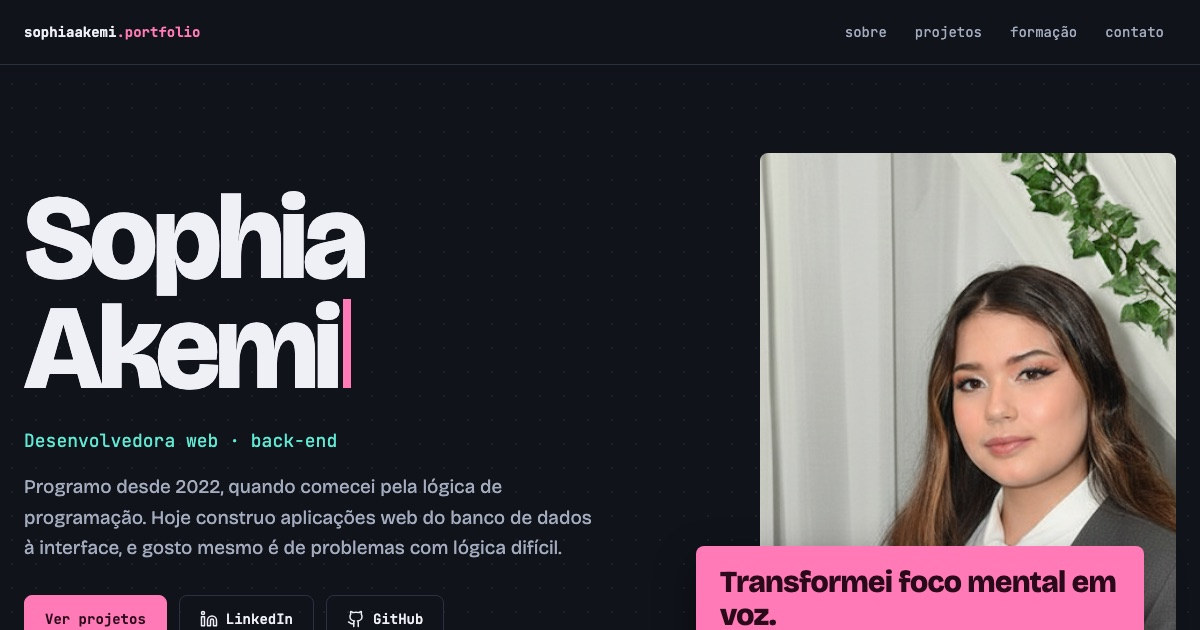
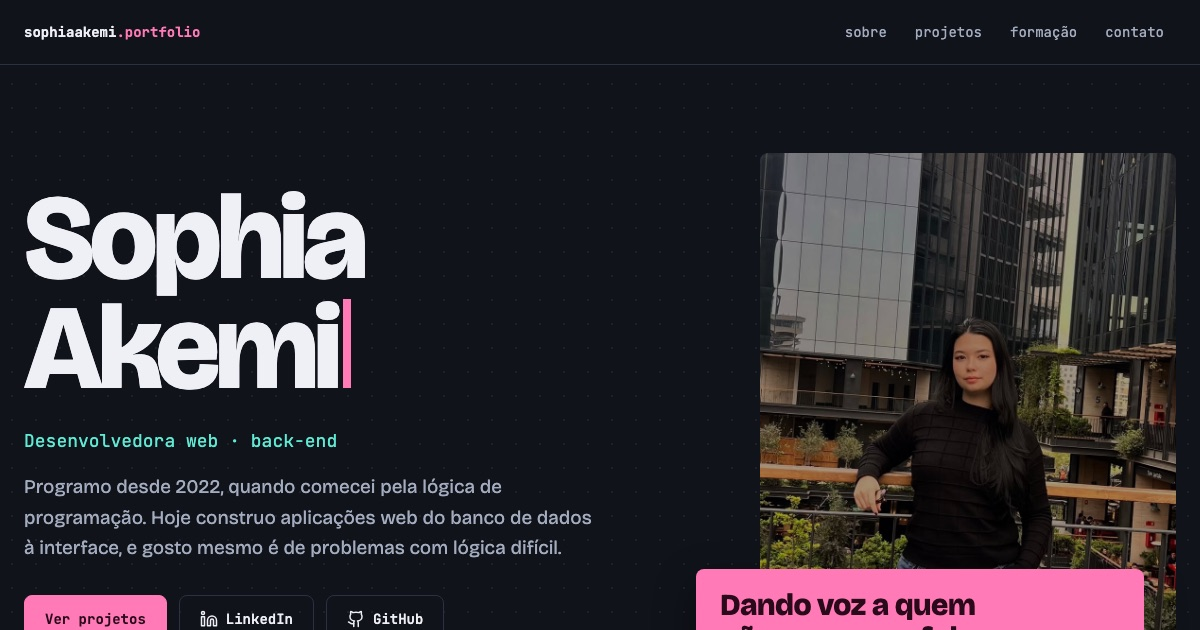
Troca a foto do topo do portfólio

Changed region(s): [[0.555, 0.2413, 0.9867, 1.0], [0.4317, 0.8444, 0.4625, 0.8746]]

diff --git a/index.html b/index.html
@@ -73,7 +73,7 @@
           </div>
 
           <div class="hero__side">
-            <img class="hero__photo" src="img/eu.png" width="620" height="449" alt="Sophia Akemi de blazer cinza e blusa branca." />
+            <img class="hero__photo" src="img/eu.jpg" width="880" height="1100" alt="Sophia Akemi de blusa preta e calça jeans, encostada em um guarda-corpo entre prédios espelhados." />
             <a class="impact" href="#projetos">
               <strong>Dando voz a quem não consegue falar.</strong>
               <span>Esse é o MindSpeak, projeto que eu liderei.</span>

diff --git a/styles.css b/styles.css
@@ -216,7 +216,7 @@ h1 {
   width: 100%;
   aspect-ratio: 4 / 5;
   object-fit: cover;
-  object-position: 66% 50%;
+  object-position: 50% 30%;
   border-radius: var(--radius);
 }
 
